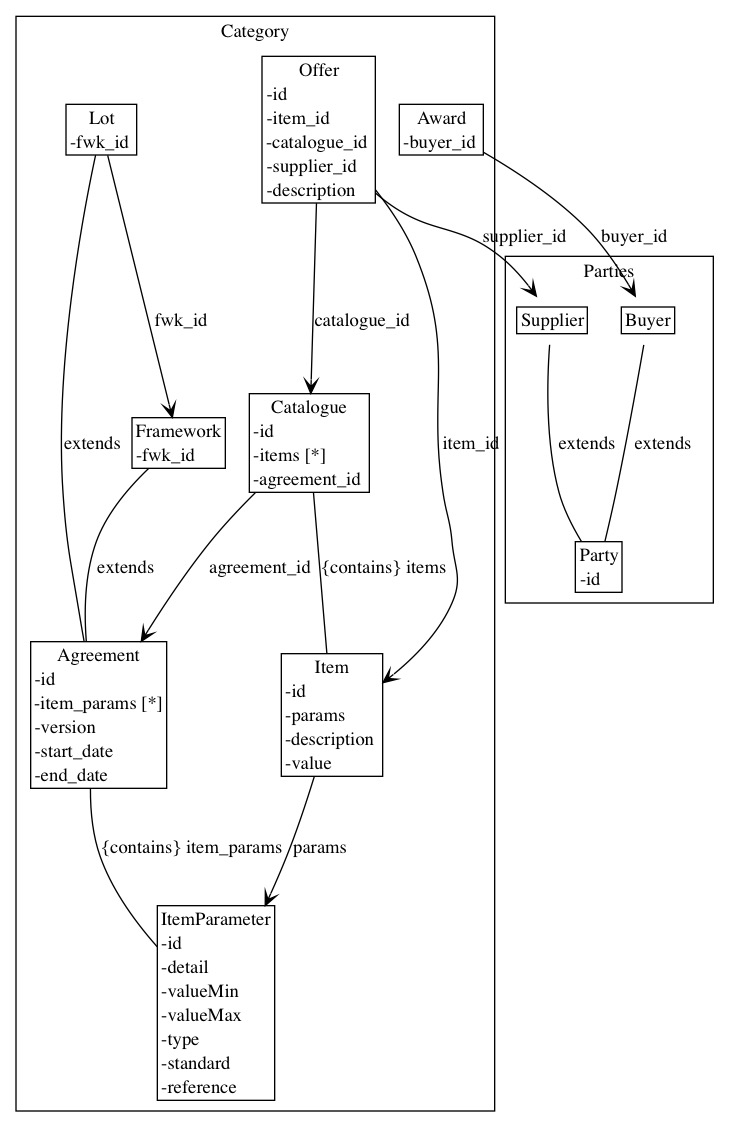
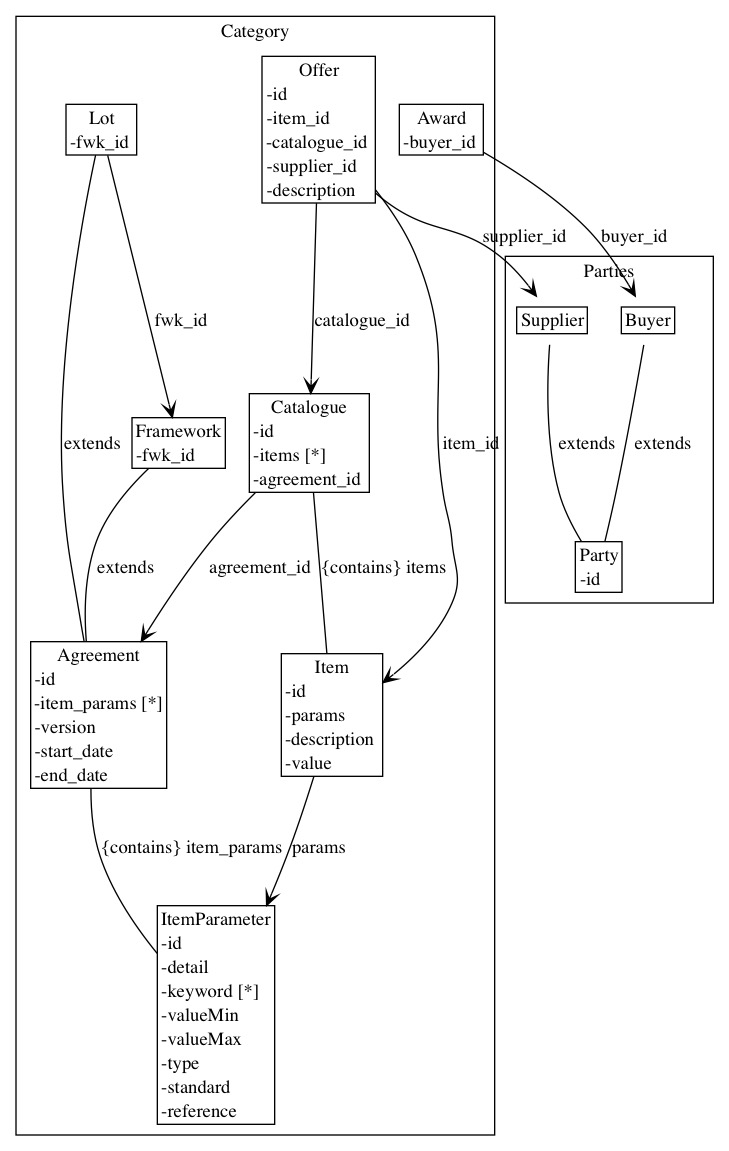
Fix attributes with multipliity

diff --git a/agreement-design/src/doc.rb b/agreement-design/src/doc.rb
@@ -42,7 +42,7 @@ def transform_type depth, id, decl, lambdas
     cond_call(depth, id, decl, :before_array_lambda, lambdas)
     j = 1
     for aa in decl
-      transform_type(depth + 1, "#{id}.#{j}", aa, lambdas)
+      transform_type(depth , "#{id}.#{j}", aa, lambdas)
       j = j + 1
     end
     cond_call(depth, id, decl, :after_array_lambda, lambdas)
@@ -64,7 +64,7 @@ class ClassNameElement < Element
   def write cat
     pput %Q!\# #{cat.class}: #{cat.name}\n!
     if (cat.respond_to?(:description))
-      pput %Q!\ #{cat.description}\n!
+      pput %Q! #{cat.description}\n!
     end
   end
 
@@ -73,7 +73,7 @@ end
 class GroupElement < Element
 
   def write grpname, level: 2
-    pput %Q!\ #{'#' * level} #{grpname}\n!
+    pput %Q! #{'#' * level} #{grpname}\n!
   end
 
 end
@@ -106,11 +106,25 @@ class MetaTypeElement < Element
     pput "|attribute|type|multiplicity|description|\n"
     pput "|---------|----|------------|-----------|\n"
     for a in type.attributes.values
-      pput "|#{a[:name]}|#{a[:type]}|#{a[:multiplicity]}|#{a[:description]}|\n"
+      pput "|#{a[:name]}|#{a[:type]}|#{self.multiplicity(a)}|#{a[:description]}|\n"
     end
     self
   end
 
+  def multiplicity m
+    m = m[:multiplicity]
+    if m.end == -1
+      if m.begin == 0
+        return "*"
+      else
+        return "#{m.begin}..*"
+      end
+    end
+    if m.end == m.begin
+      return m.end.to_s
+    end
+    return m.to_s
+  end
 end
 
 class Doc

diff --git a/agreement-design/test/data_model_test.rb b/agreement-design/test/data_model_test.rb
@@ -76,9 +76,10 @@ class DataModelTest < Test::Unit::TestCase
   end
 
   def test_model
-    assert( TestMetamodel::Test_Model.contents[:table][0].attributes[:vals][0] == 1, "has vals" )
-    assert( TestMetamodel::Test_Model.contents[:referencingtype][0].attributes[:mate].attributes[:id] == :content, "has vals" )
-    assert( TestMetamodel::Test_Model.contents[:referencingtype][0].mate.id == :content, "has vals" )
+    assert_equal(1, TestMetamodel::Test_Model.contents[:table][0].attributes[:vals][0], "has vals")
+    assert_equal(2, TestMetamodel::Test_Model.contents[:table][0].attributes[:vals][1], "has vals")
+    assert_equal(:content, TestMetamodel::Test_Model.contents[:referencingtype][0].attributes[:mate].attributes[:id], "has vals")
+    assert_equal(:content, TestMetamodel::Test_Model.contents[:referencingtype][0].mate.id, "has vals")
   end
 
   private

diff --git a/agreement-design/model/agreement.rb b/agreement-design/model/agreement.rb
@@ -9,6 +9,7 @@ domain :Category do
            description: "Defines the meaning of Items in Catalogues") {
     attribute :id, String
     attribute :detail, String
+    attribute :keyword, String, ZERO_TO_MANY
     attribute :valueMin, String
     attribute :valueMax, String
     attribute :type, String, "One of: String, Currency, Location, Amount"

diff --git a/agreement-design/src/data_model.rb b/agreement-design/src/data_model.rb
@@ -69,7 +69,7 @@ module DataModel
 
 
     def method_missing(sym, *args, &block)
-      if !block_given? && @attributes[sym]
+      if (args.length==0) && @attributes[sym]
         return @attributes[sym]
       end
       if self.class.attributes[sym]

diff --git a/agreement-design/model/fm.rb b/agreement-design/model/fm.rb
@@ -13,6 +13,8 @@ Category.new :FM do
     id "1"; fwk_id FM_ID
     item_params do
       id 1; valueMin 0; valueMax 100
+      keyword :thing
+      keyword :thing2
     end
     item_params do
       id 2; valueMin 22; valueMax 33

diff --git a/agreement-design/gen/doc/metamodel.md b/agreement-design/gen/doc/metamodel.md
@@ -4,94 +4,95 @@
 
 |attribute|type|multiplicity|description|
 |---------|----|------------|-----------|
-|id|String|1..1||
-|detail|String|1..1||
-|valueMin|String|1..1||
-|valueMax|String|1..1||
-|type|String|1..1|One of: String, Currency, Location, Amount|
-|standard|String|1..1|which standard defines the item type, such as UBL2.1|
-|reference|String|1..1|reference within standard, such as UBL2.1|
+|id|String|1||
+|detail|String|1||
+|keyword|String|*||
+|valueMin|String|1||
+|valueMax|String|1||
+|type|String|1|One of: String, Currency, Location, Amount|
+|standard|String|1|which standard defines the item type, such as UBL2.1|
+|reference|String|1|reference within standard, such as UBL2.1|
 ## Agreement
   General definition of Commercial Agreements
 
 |attribute|type|multiplicity|description|
 |---------|----|------------|-----------|
-|id|String|1..1||
-|item_params|Category::ItemParameter|0..-1||
-|version|String|1..1|semantic version id of the form X.Y.Z|
-|start_date|Date|1..1||
-|end_date|Date|1..1||
+|id|String|1||
+|item_params|Category::ItemParameter|*||
+|version|String|1|semantic version id of the form X.Y.Z|
+|start_date|Date|1||
+|end_date|Date|1||
 ## Framework extends Category::Agreement
   A kind of Framework used for calloffs, composed of Lots
 
 |attribute|type|multiplicity|description|
 |---------|----|------------|-----------|
-|id|String|1..1||
-|item_params|Category::ItemParameter|0..-1||
-|version|String|1..1|semantic version id of the form X.Y.Z|
-|start_date|Date|1..1||
-|end_date|Date|1..1||
-|fwk_id|String|1..1|Such as the RM number|
+|id|String|1||
+|item_params|Category::ItemParameter|*||
+|version|String|1|semantic version id of the form X.Y.Z|
+|start_date|Date|1||
+|end_date|Date|1||
+|fwk_id|String|1|Such as the RM number|
 ## Lot extends Category::Agreement
   
 
 |attribute|type|multiplicity|description|
 |---------|----|------------|-----------|
-|id|String|1..1||
-|item_params|Category::ItemParameter|0..-1||
-|version|String|1..1|semantic version id of the form X.Y.Z|
-|start_date|Date|1..1||
-|end_date|Date|1..1||
-|fwk_id|String|1..1|Part of framework|
+|id|String|1||
+|item_params|Category::ItemParameter|*||
+|version|String|1|semantic version id of the form X.Y.Z|
+|start_date|Date|1||
+|end_date|Date|1||
+|fwk_id|String|1|Part of framework|
 ## Item
   Something offered to a buyer as part of a contract.Items are defined in Catalogues.
 
 |attribute|type|multiplicity|description|
 |---------|----|------------|-----------|
-|id|String|1..1|Item id, possibly a concatentation of the standard (in params) and the catalogue and an incrementatl id?|
-|params|String|1..1||
-|description|String|1..1||
-|value|String|1..1||
+|id|String|1|Item id, possibly a concatentation of the standard (in params) and the catalogue and an incrementatl id?|
+|params|String|1||
+|description|String|1||
+|value|String|1||
 ## Catalogue
   A collection of items that can be bought via an Agreement.
 
 |attribute|type|multiplicity|description|
 |---------|----|------------|-----------|
-|id|String|1..1||
-|items|Category::Item|0..-1||
-|agreement_id|String|1..1||
+|id|String|1||
+|items|Category::Item|*||
+|agreement_id|String|1||
 ## Offer
   
 
 |attribute|type|multiplicity|description|
 |---------|----|------------|-----------|
-|id|String|1..1|Offer id, probably a UUID|
-|item_id|String|1..1||
-|catalogue_id|String|1..1||
-|supplier_id|String|1..1||
-|description|String|1..1|Description of the offer|
+|id|String|1|Offer id, probably a UUID|
+|item_id|String|1||
+|catalogue_id|String|1||
+|supplier_id|String|1||
+|description|String|1|Description of the offer|
 ## Award
   
 
 |attribute|type|multiplicity|description|
 |---------|----|------------|-----------|
-|buyer_id|String|1..1||
+|buyer_id|String|1||
  # Parties
 ## Party
   
 
 |attribute|type|multiplicity|description|
 |---------|----|------------|-----------|
-|id|String|1..1|UUID or Salesforce ID?|
+|id|String|1|UUID or Salesforce ID?|
 ## Supplier extends Parties::Party
   
 
 |attribute|type|multiplicity|description|
 |---------|----|------------|-----------|
-|id|String|1..1|UUID or Salesforce ID?|
+|id|String|1|UUID or Salesforce ID?|
 ## Buyer extends Parties::Party
   
 
 |attribute|type|multiplicity|description|
 |---------|----|------------|-----------|
-|id|String|1..1|UUID or Salesforce ID?|
+|id|String|1|UUID or Salesforce ID?|

diff --git a/agreement-design/gen/doc/frameworks.md b/agreement-design/gen/doc/frameworks.md
@@ -8,14 +8,12 @@
 ### lot 1 
    - id 1
    - fwk_id RM123
-##### item_params 1 
-       - id 1
-       - valueMin 0
-       - valueMax 100
-##### item_params 2 
-       - id 2
-       - valueMin 22
-       - valueMax 33
+#### item_params 1 
+     - id 1
+     - valueMin 0
+     - valueMax 100
+     - keyword.1 thing
+     - keyword.2 thing2
 ### lot 2 
    - id 2
    - fwk_id RM123
